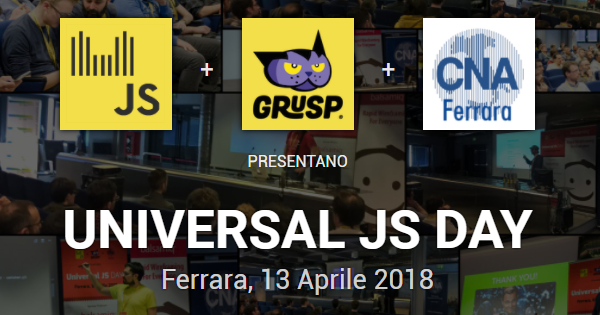
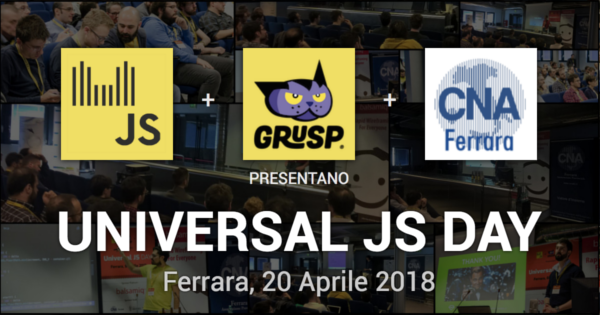
change date

diff --git a/index.html b/index.html
@@ -2,7 +2,7 @@
 layout: universaljsday2
 title: Universal JS Day
 ttl: Universal JS Day
-conf_data: Ferrara, 13 Aprile 2018
+conf_data: Ferrara, 20 Aprile 2018
 base_url: http://2018.universaljsday.com
 workshop: false
 cfp: true
